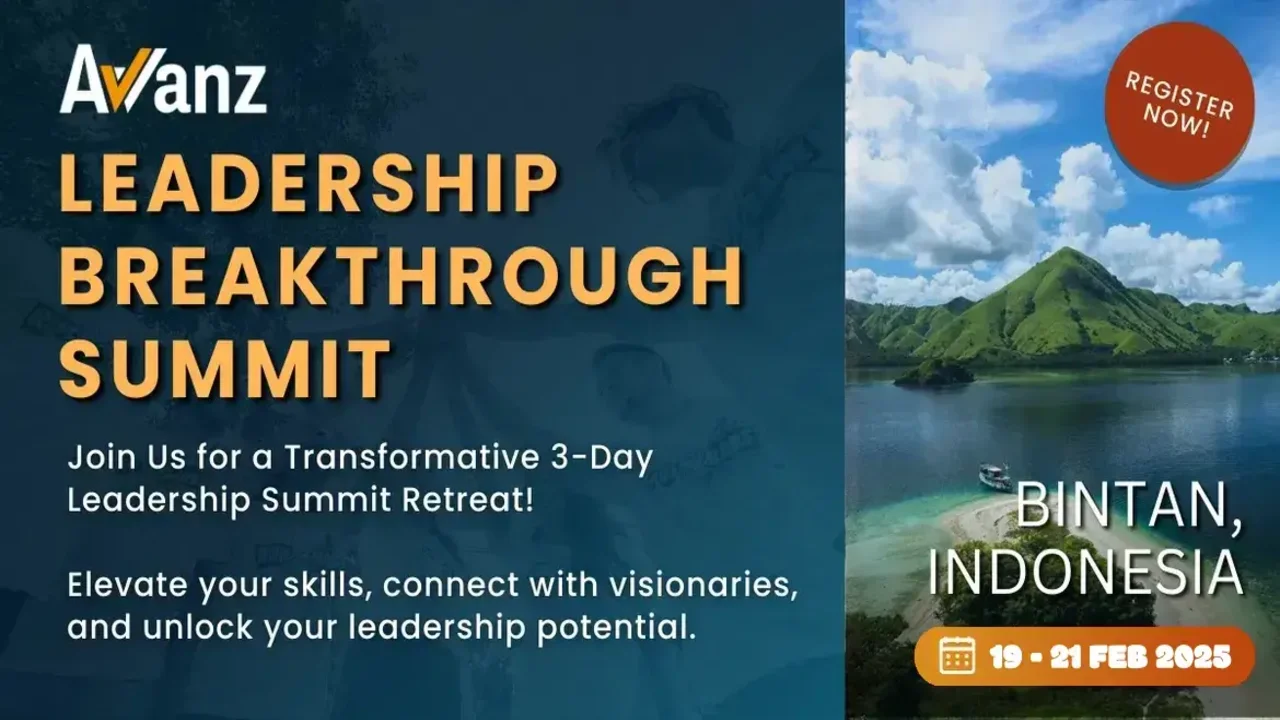
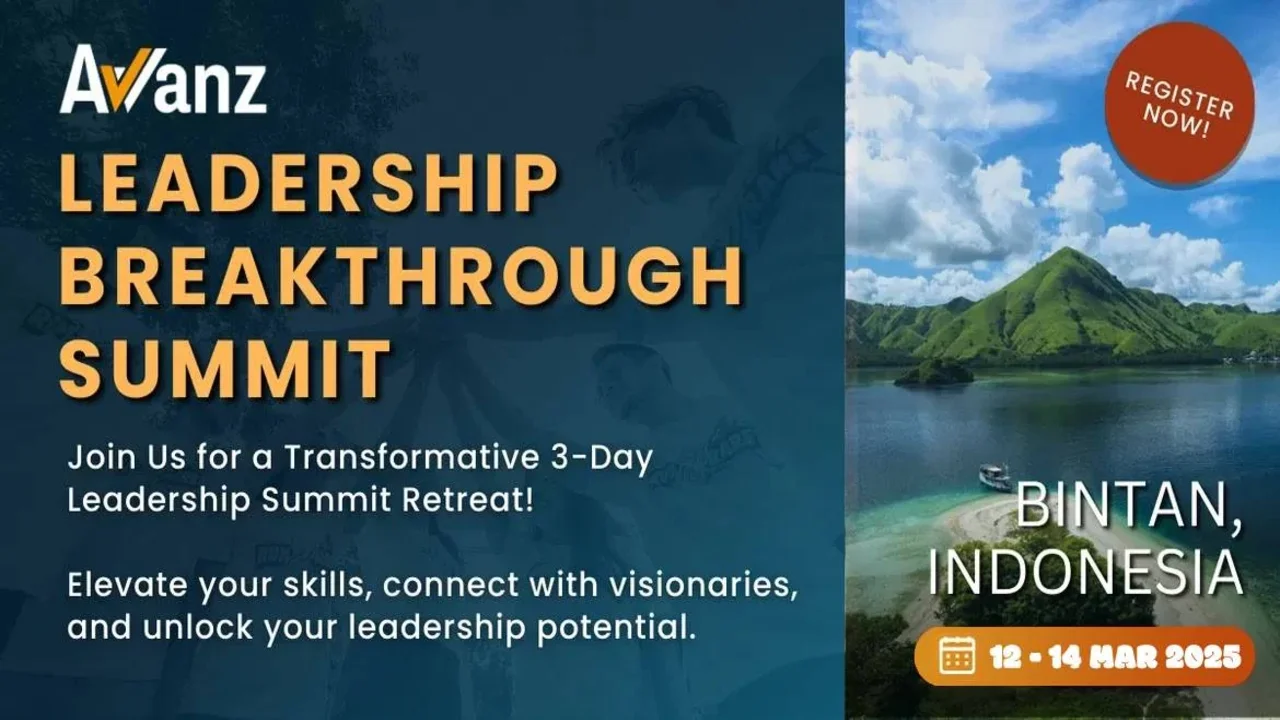
Leadership Updated Date

Changed region(s): [[0.7812, 0.8861, 0.9688, 0.9472]]

diff --git a/resources/views/Leadership/pages/homepage/index.blade.php b/resources/views/Leadership/pages/homepage/index.blade.php
@@ -606,7 +606,7 @@ Avvanz Leadership Breakthrough Summit
                         BINTAN
                     </td>
                     <td class="border-dmb text-marigold fs-4">
-                        19th to 21st Feb 2025 
+                        12th to 14th March 2025
                     </td>
                     <td class="border-dmb text-marigold fs-4">
                         SGD 6,888
